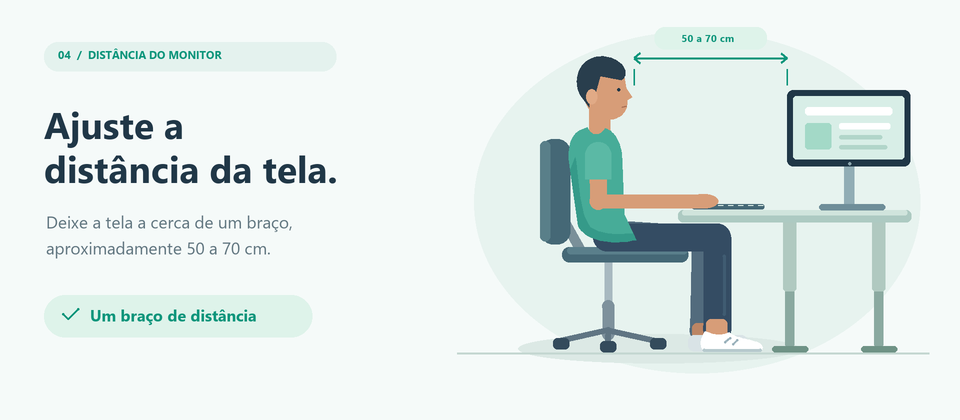
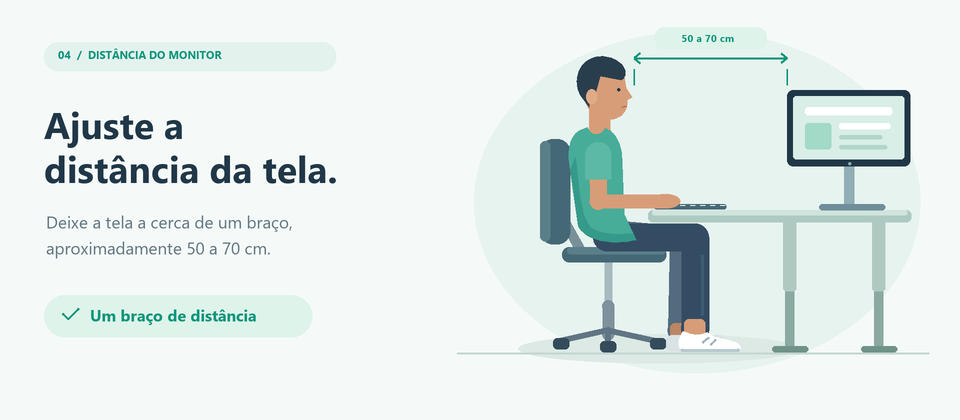
feat: Ajustando o comprimento dos braços do boneco

Changed region(s): [[0.6562, 0.4643, 0.8125, 0.8357]]

diff --git a/scripts/generate_calibration_desk.py b/scripts/generate_calibration_desk.py
@@ -1,3 +1,4 @@
+from math import sqrt
 from pathlib import Path
 
 from PIL import Image
@@ -46,15 +47,15 @@ def draw_chair(canvas, lift=0):
     raised.line([(558, 210), (582, 253), (607, 253)], "#7a9099", 10, True)
     raised.box((540, 139, 570, 244), "#456876", 13)
     raised.box((540, 141, 550, 241), "#597f89", 7)
-    raised.box((562, 247, 688, 262), "#456876", 7)
-    raised.box((567, 247, 687, 254), "#5a7f8b", 4)
+    raised.box((562, 247, 666, 262), "#456876", 7)
+    raised.box((567, 247, 665, 254), "#5a7f8b", 4)
 
 
 def draw_footrest(canvas, lift):
     if lift <= 0:
         return
-    canvas.box((687, 352 - lift, 775, 352), "#72998d", 3)
-    canvas.box((684, 350 - lift, 778, min(355 - lift, 352)), "#a8d4c4", 2)
+    canvas.box((665, 352 - lift, 753, 352), "#72998d", 3)
+    canvas.box((662, 350 - lift, 756, min(355 - lift, 352)), "#a8d4c4", 2)
 
 
 def draw_desk(canvas, top):
@@ -63,29 +64,30 @@ def draw_desk(canvas, top):
         canvas.box((x, 270, x + 9, 347), "#8aa9a0", 3)
         canvas.box((x - 2, top + 10, x + 11, 291), "#b0c9c0", 3)
         canvas.box((x - 13, 346, x + 23, 352), "#6f9386", 3)
-    canvas.box((678, top, 911, top + 12), "#adcac2", 5)
-    canvas.box((682, top, 907, top + 5), "#d0e4dc", 2)
-    canvas.box((692, top - 6, 764, top - 1), "#456876", 2)
-    for x in range(698, 760, 10):
+    canvas.box((648, top, 911, top + 12), "#adcac2", 5)
+    canvas.box((652, top, 907, top + 5), "#d0e4dc", 2)
+    canvas.box((654, top - 6, 726, top - 1), "#456876", 2)
+    for x in range(660, 722, 10):
         canvas.line([(x, top - 5), (x + 5, top - 5)], "#dcece6", 1)
 
 
 def draw_person(canvas, desk_top):
-    canvas.line([(611, 231), (703, 237), (701, 330)], "#526b7d", 23, True)
-    canvas.box((692, 323, 711, 338), "#bc8564", 5)
-    canvas.box((688, 335, 747, 351), "#d9e3e6", 6)
-    canvas.line([(607, 237), (717, 237), (717, 328)], PANTS, 28, True)
-    canvas.line([(724, 256), (724, 314)], "#405c72", 3, True)
-    canvas.box((706, 319, 727, 338), SKIN, 5)
+    # Keep the thighs and shins similar in length, with the knees past the seat.
+    canvas.line([(611, 231), (681, 237), (679, 330)], "#526b7d", 23, True)
+    canvas.box((670, 323, 689, 338), "#bc8564", 5)
+    canvas.box((666, 335, 725, 351), "#d9e3e6", 6)
+    canvas.line([(607, 237), (695, 237), (695, 328)], PANTS, 28, True)
+    canvas.line([(702, 256), (702, 314)], "#405c72", 3, True)
+    canvas.box((684, 319, 705, 338), SKIN, 5)
     canvas.path([
-        ("M", 705, 331), ("C", 714, 335, 721, 336, 729, 332),
-        ("C", 736, 338, 745, 338, 754, 341),
-        ("C", 762, 343, 764, 347, 761, 351),
-        ("L", 703, 351), ("C", 699, 345, 700, 337, 705, 331),
+        ("M", 683, 331), ("C", 692, 335, 699, 336, 707, 332),
+        ("C", 714, 338, 723, 338, 732, 341),
+        ("C", 740, 343, 742, 347, 739, 351),
+        ("L", 681, 351), ("C", 677, 345, 678, 337, 683, 331),
     ], "#ffffff")
-    canvas.line([(704, 350), (760, 350)], "#b6c9cd", 3, True)
-    canvas.line([(730, 338), (725, 342)], "#9bb2bc", 2, True)
-    canvas.line([(737, 340), (733, 344)], "#9bb2bc", 2, True)
+    canvas.line([(682, 350), (738, 350)], "#b6c9cd", 3, True)
+    canvas.line([(708, 338), (703, 342)], "#9bb2bc", 2, True)
+    canvas.line([(715, 340), (711, 344)], "#9bb2bc", 2, True)
 
     canvas.box((589, 106, 610, 141), SKIN, 5)
     canvas.path([
@@ -102,11 +104,14 @@ def draw_person(canvas, desk_top):
         ("L", 570, 170),
     ], "#359a89")
 
-    # The forearm follows the keyboard; the upper arm remains beside the torso.
+    # Rotate a fixed-length forearm toward the keyboard as the desk moves.
+    # Its length is close to the shoulder-to-elbow distance, plus a separate hand.
+    wrist_y = desk_top - 9
+    wrist_x = 598 + sqrt(64**2 - (wrist_y - 201)**2)
     # Keep the rounded upper end inside the cuff instead of above the sleeve.
     canvas.line([(598, 181), (598, 201)], SKIN, 17, True)
-    canvas.line([(598, 201), (700, desk_top - 9)], SKIN, 14, True)
-    canvas.ellipse((690, desk_top - 16, 718, desk_top - 2), SKIN)
+    canvas.line([(598, 201), (wrist_x, wrist_y)], SKIN, 14, True)
+    canvas.ellipse((wrist_x - 10, wrist_y - 7, wrist_x + 18, wrist_y + 7), SKIN)
     # Center the shoulder on the torso and align the sleeve with the upper arm.
     canvas.path([
         ("M", 585, 179), ("L", 585, 155),
